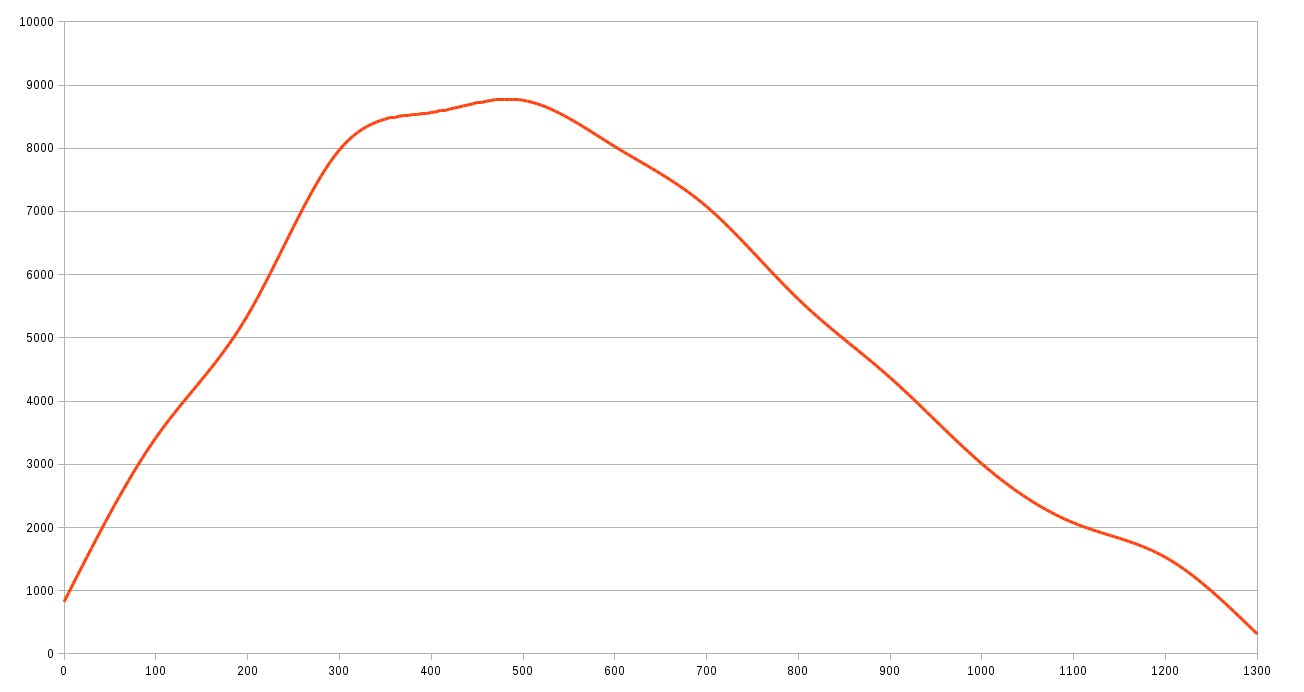
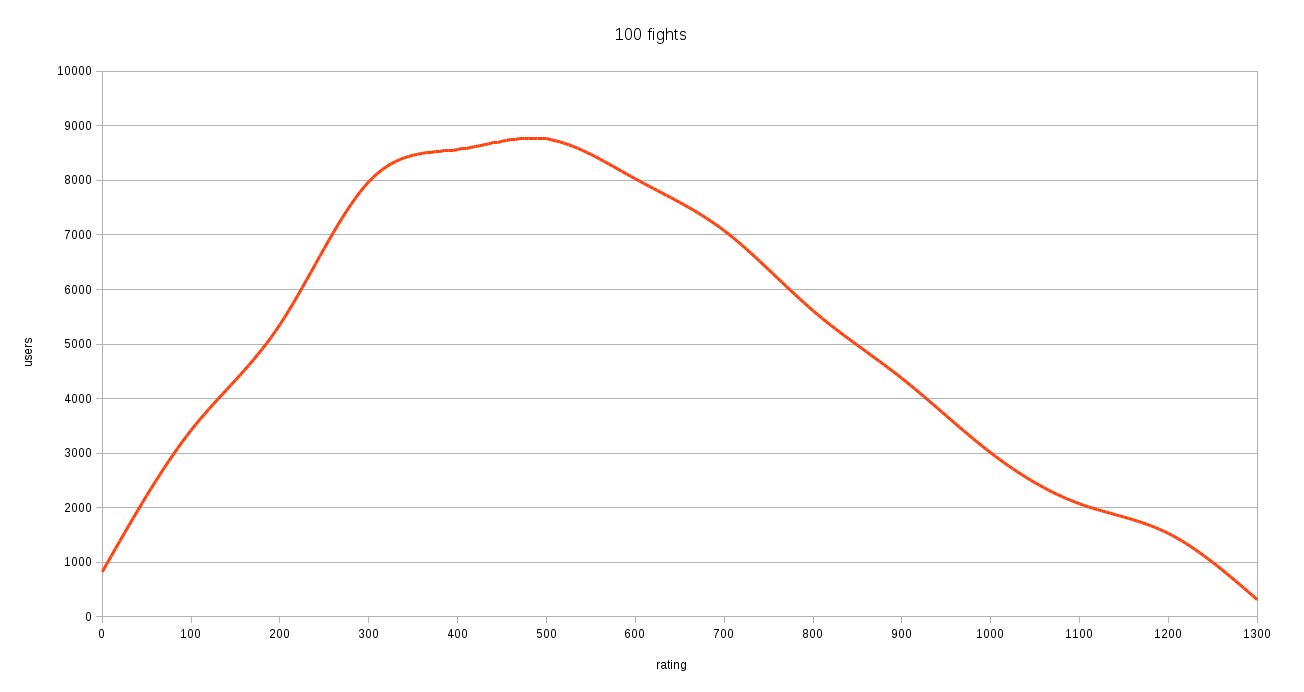
Added titles to diagrams

diff --git a/README.md b/README.md
@@ -1,2 +1,2 @@
-# play-with-python
+# Python sandbox
 There are some scripts in this repository created while playing with Python
